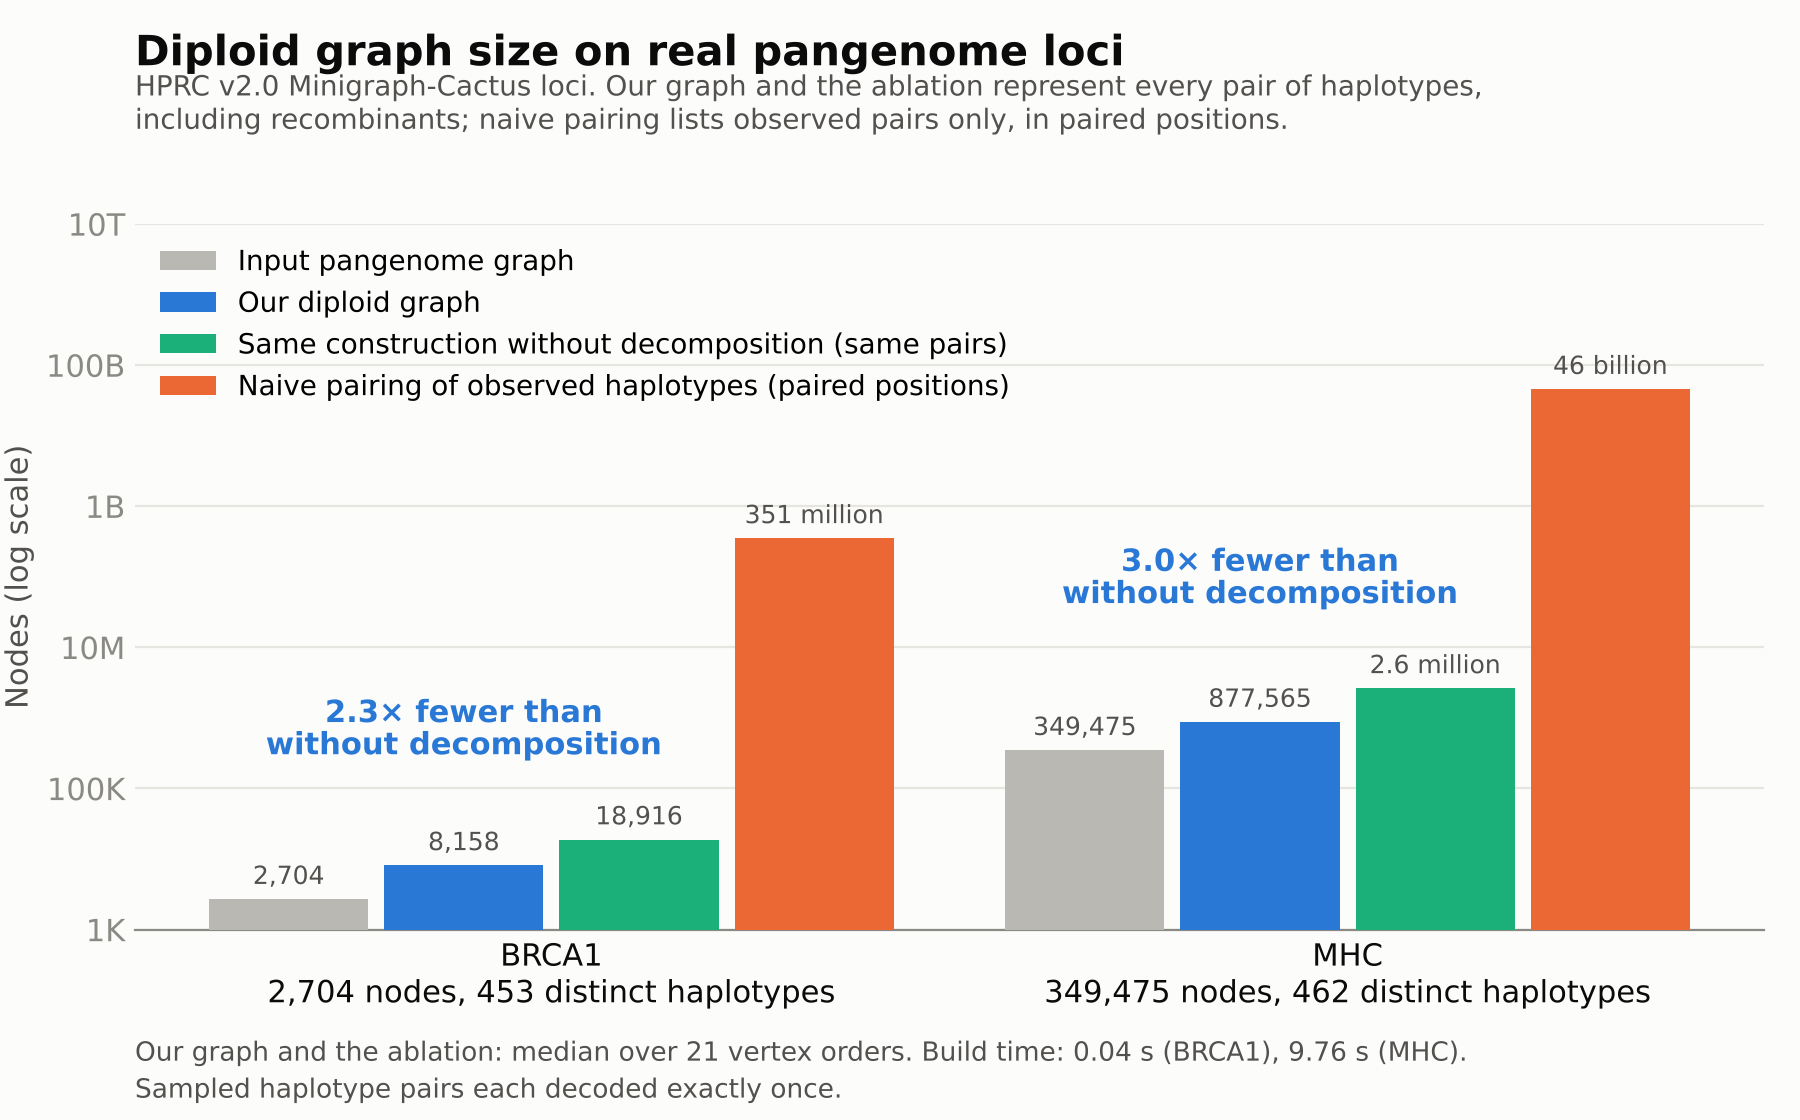
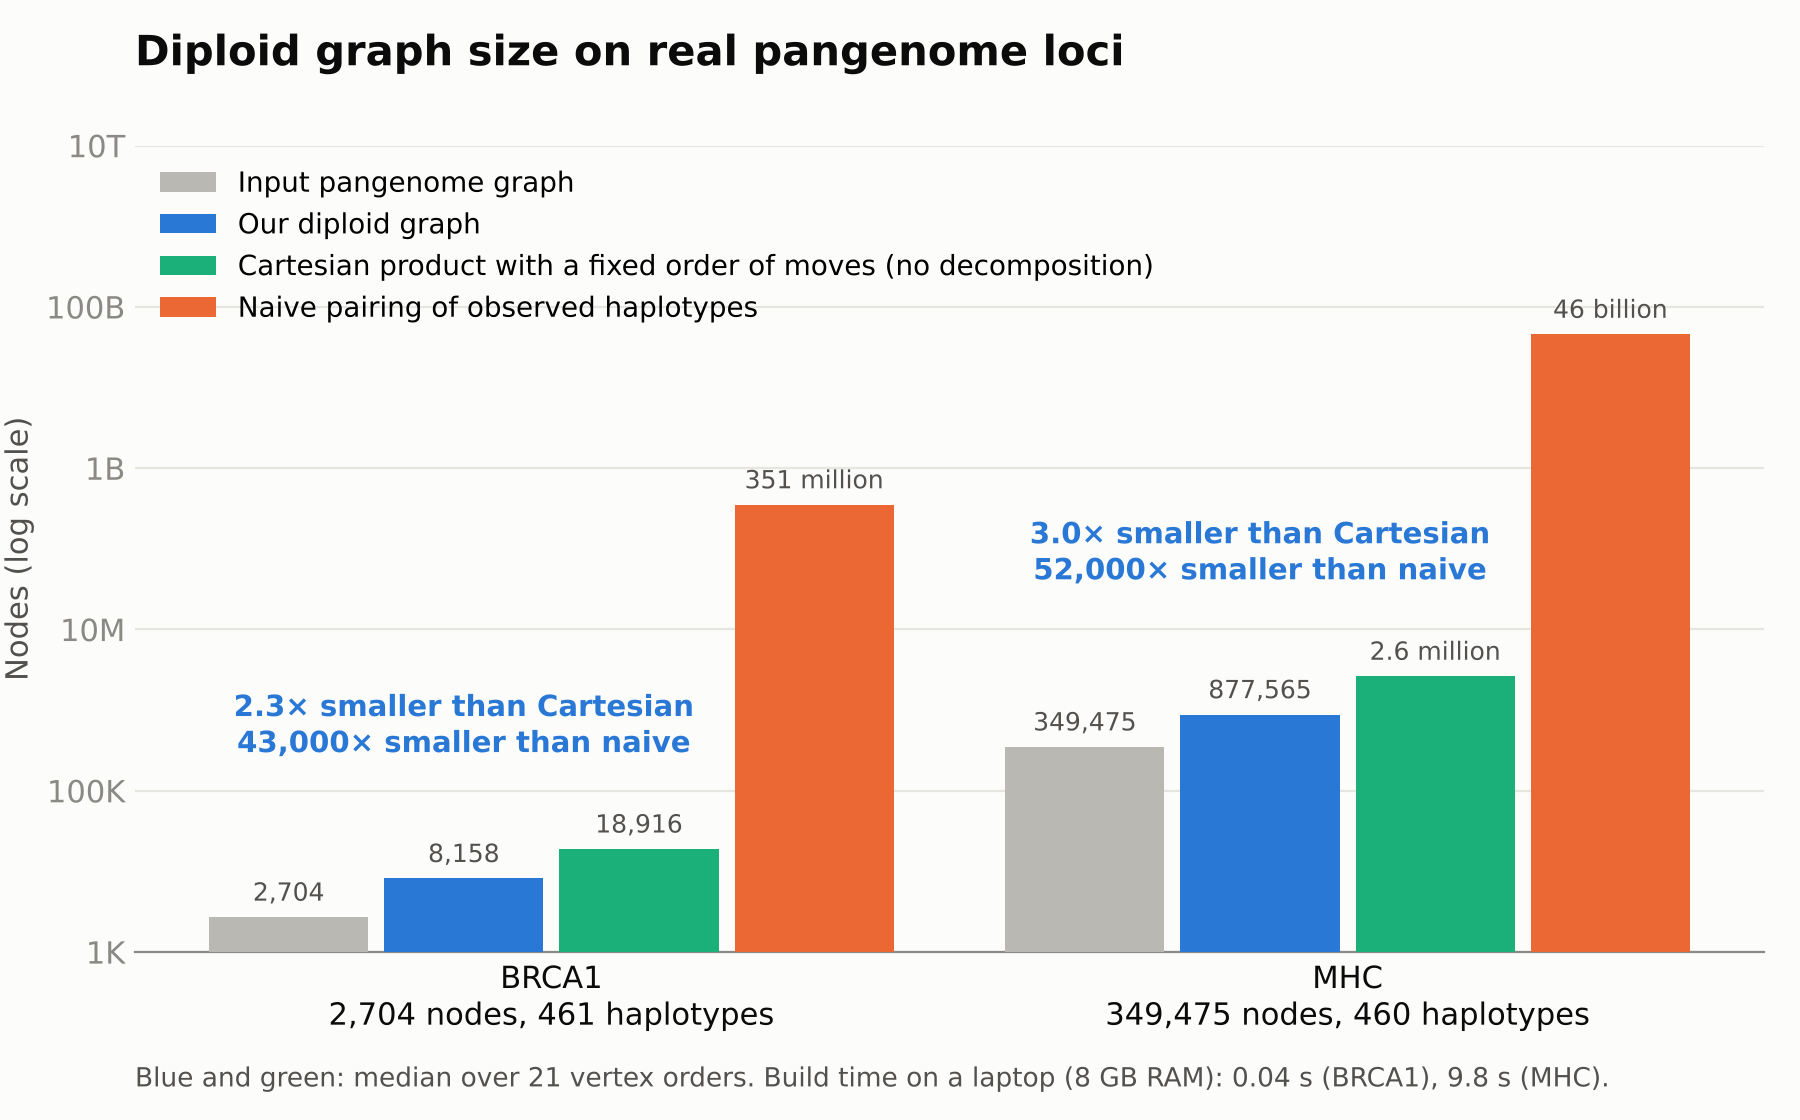
Figure: clearer labels (Cartesian product with a fixed order of moves; comparisons with both baselines; assembly haplotype counts)

diff --git a/experiments/plot_real.py b/experiments/plot_real.py
@@ -53,8 +53,8 @@ def main() -> None:
     width, gap = 0.2, 0.02
     series = [("Input pangenome graph", "input_nodes", INPUT),
               ("Our diploid graph", "diploid_nodes", OURS),
-              ("Same construction without decomposition (same pairs)", "no_decomposition_nodes", PRODUCT),
-              ("Naive pairing of observed haplotypes (paired positions)", "naive_observed_nodes", NAIVE)]
+              ("Cartesian product with a fixed order of moves (no decomposition)", "no_decomposition_nodes", PRODUCT),
+              ("Naive pairing of observed haplotypes", "naive_observed_nodes", NAIVE)]
     offset = (len(series) - 1) / 2
     for k, (label, key, color) in enumerate(series):
         xs = [i + (k - offset) * (width + gap) for i in range(len(loci))]
@@ -66,9 +66,12 @@ def main() -> None:
     for i, l in enumerate(loci):
         d = data[l]
         ratio = d.get("ratio_median", d["no_decomposition_nodes"] / d["diploid_nodes"])
+        naive = d["naive_observed_nodes"] / d["diploid_nodes"]
+        naive_txt = f"{round(naive, -3):,.0f}" if naive >= 1000 else f"{naive:,.0f}"
         x = i + (1 - offset) * (width + gap)  # our bar
-        ax.text(x, d["no_decomposition_nodes"] * 12, f"{ratio:.1f}\u00d7 fewer than\nwithout decomposition", ha="center", va="bottom",
-                fontsize=11, fontweight="bold", color=OURS, zorder=5, linespacing=1.15)
+        ax.text(x, d["no_decomposition_nodes"] * 12,
+                f"{ratio:.1f}\u00d7 smaller than Cartesian\n{naive_txt}\u00d7 smaller than naive",
+                ha="center", va="bottom", fontsize=10.5, fontweight="bold", color=OURS, zorder=5, linespacing=1.3)
 
     ax.set_yscale("log")
     ax.set_ylim(1e3, 1e13)
@@ -77,7 +80,8 @@ def main() -> None:
     ax.set_yticklabels(["1K", "100K", "10M", "1B", "100B", "10T"], color=MUTED)
     ax.set_ylabel("Nodes (log scale)", color=INK2)
     ax.set_xticks(range(len(loci)))
-    ax.set_xticklabels([f"{l}\n{data[l]['input_nodes']:,} nodes, {data[l]['haplotypes']} distinct haplotypes" for l in loci],
+    ax.set_xticklabels([f"{l}\n{data[l]['input_nodes']:,} nodes, {data[l].get('assembly_haplotypes', data[l]['haplotypes'])} haplotypes"
+                        for l in loci],
                        color=INK)
     ax.grid(axis="y", color=GRID, lw=0.8, zorder=0)
     for s in ("top", "right", "left"):
@@ -87,16 +91,13 @@ def main() -> None:
 
     fig.suptitle("Diploid graph size on real pangenome loci", x=0.075, ha="left", fontsize=15,
                  fontweight="bold", color=INK, y=0.97)
-    fig.text(0.075, 0.885, "HPRC v2.0 Minigraph-Cactus loci. Our graph and the ablation represent every pair of "
-             "haplotypes,\nincluding recombinants; naive pairing lists observed pairs only, in paired positions.",
-             ha="left", fontsize=10, color=INK2)
     ax.legend(loc="upper left", frameon=False, fontsize=10, bbox_to_anchor=(0.0, 1.0))
-    times = ", ".join(f"{data[l]['build_s']:.2f} s ({l})" for l in loci)
-    fig.text(0.075, 0.02,
-             f"Our graph and the ablation: median over {data[loci[0]].get('orders', 'several')} vertex orders. "
-             f"Build time: {times}.\nSampled haplotype pairs each decoded exactly once.",
-             ha="left", fontsize=9.5, color=INK2, linespacing=1.4)
-    fig.subplots_adjust(left=0.075, right=0.98, top=0.8, bottom=0.17)
+    times = ", ".join(f"{data[l]['build_s']:.2g} s ({l})" for l in loci)
+    fig.text(0.075, 0.03,
+             f"Blue and green: median over {data[loci[0]].get('orders', 'several')} vertex orders. "
+             f"Build time on a laptop (8 GB RAM): {times}.",
+             ha="left", fontsize=9.5, color=INK2)
+    fig.subplots_adjust(left=0.075, right=0.98, top=0.87, bottom=0.15)
     fig.savefig(args.out, dpi=200, facecolor=SURFACE)
     print(f"wrote {args.out}")
 

diff --git a/experiments/summarize.py b/experiments/summarize.py
@@ -145,6 +145,7 @@ def main() -> None:
                 "no_decomposition_nodes": j["order"]["product_vertices_min_median_max"][1],
                 "naive_observed_nodes": j["stats"]["naive_ordered_observed_nodes"],
                 "haplotypes": j["stats"]["n_distinct_full_haplotype_walks"],
+                **({"assembly_haplotypes": j["external"]["pangenie_panel_haplotypes"]} if j.get("external") else {}),
                 "build_s": j["stats"]["time_decompose_s"] + j["stats"]["time_build_s"],
                 "ratio_median": j["order"]["median_ratio_product_over_ours"],
                 "orders": j["order"]["orders"],
